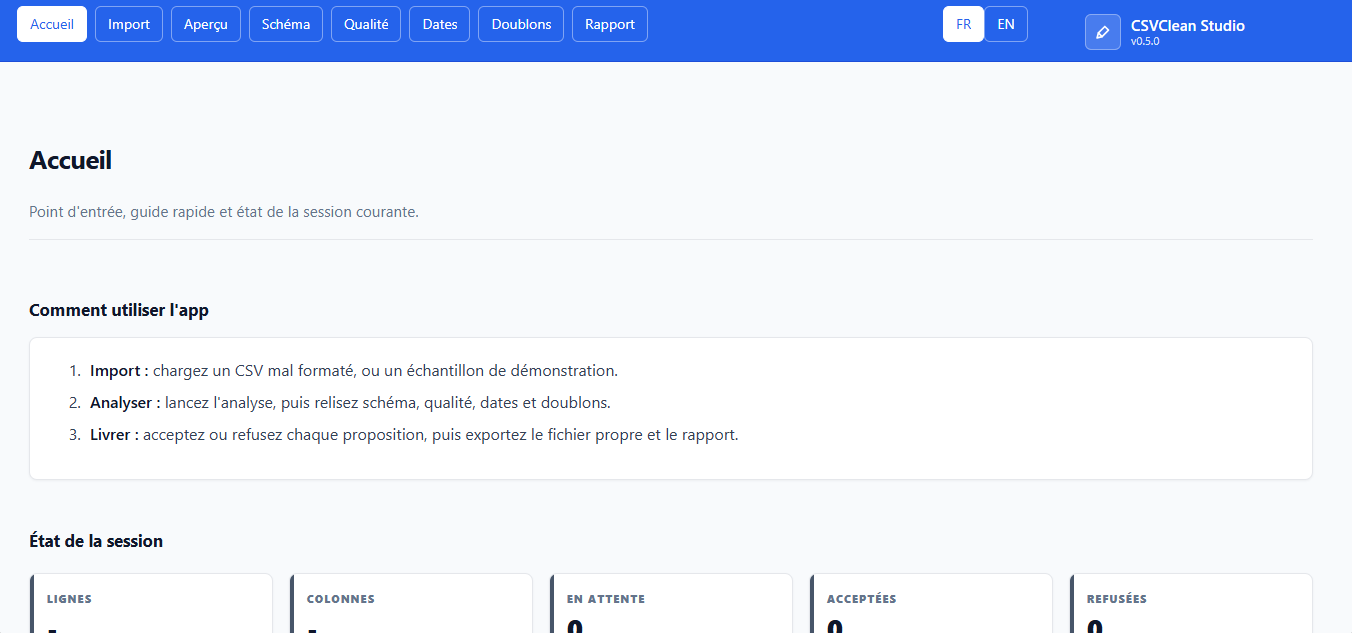
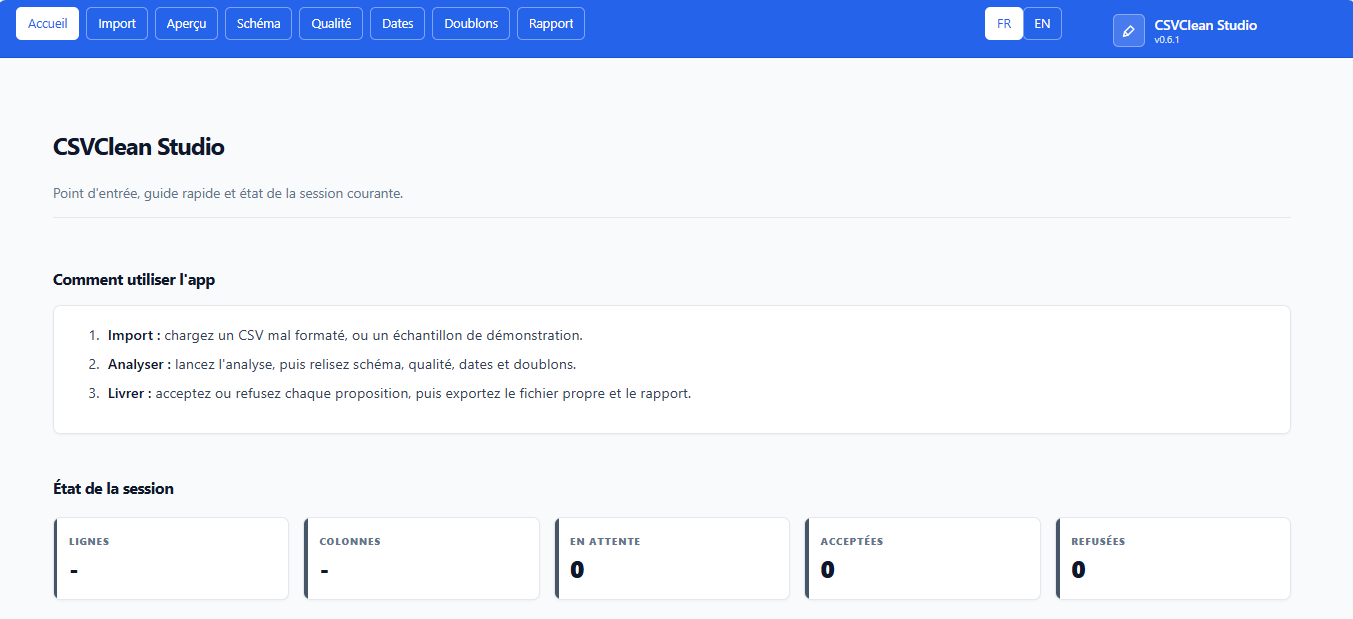
feat: update home page title and add info/err boxes for better user feedback

diff --git a/assets/styles.css b/assets/styles.css
@@ -130,6 +130,10 @@ code,pre,kbd,samp,[data-testid="stCode"],[data-testid="stJson"],[data-testid="st
 .warnbox svg{width:16px;height:16px;flex:0 0 auto;margin-top:1px;color:var(--medium)}
 .okbox{display:flex;gap:.5rem;align-items:center;background:var(--info-soft);border:1px solid #bbf7d0;border-left:4px solid var(--info);border-radius:var(--radius-md);padding:.7rem .9rem;font-size:.9rem;color:#166534}
 .okbox svg{width:16px;height:16px;flex:0 0 auto;color:var(--info)}
+.infobox{display:flex;gap:.5rem;align-items:center;background:var(--primary-soft);border:1px solid #bfdbfe;border-left:4px solid var(--primary);border-radius:var(--radius-md);padding:.7rem .9rem;font-size:.9rem;color:#1e40af}
+.infobox svg{width:16px;height:16px;flex:0 0 auto;color:var(--primary)}
+.errbox{display:flex;gap:.5rem;align-items:flex-start;background:var(--critical-soft);border:1px solid #fecaca;border-left:4px solid var(--critical);border-radius:var(--radius-md);padding:.7rem .9rem;font-size:.9rem;color:#991b1b}
+.errbox svg{width:16px;height:16px;flex:0 0 auto;margin-top:1px;color:var(--critical)}
 
 .stButton > button,.stDownloadButton > button{border-radius:12px;border:1px solid var(--border);background:var(--surface);color:var(--text-2);font-weight:700;padding:.55rem 1rem;box-shadow:var(--shadow-sm)}
 .stButton > button:hover,.stDownloadButton > button:hover{border-color:var(--primary);color:var(--primary)}
@@ -138,6 +142,10 @@ code,pre,kbd,samp,[data-testid="stCode"],[data-testid="stJson"],[data-testid="st
 .stTextInput input,.stNumberInput input,.stDateInput input,.stTimeInput input,.stSelectbox div[data-baseweb="select"] > div,.stMultiSelect div[data-baseweb="select"] > div,textarea{border-radius:12px!important;border-color:var(--border)!important;background:var(--surface)!important;color:var(--text)!important;font-family:var(--font-sans)!important}
 .stTextInput input:focus,.stNumberInput input:focus,.stSelectbox div[data-baseweb="select"] > div:focus-within,.stMultiSelect div[data-baseweb="select"] > div:focus-within,textarea:focus{border-color:var(--primary)!important;box-shadow:var(--focus-ring)!important}
 [data-testid="stAlert"]{border-radius:14px!important;border:1px solid var(--border)!important;border-left-width:4px!important;padding:.75rem .9rem!important;background:var(--surface)!important;box-shadow:var(--shadow-sm);font-family:var(--font-sans)!important}
+[data-testid="stAlert"]:has([data-testid="stAlertContentWarning"]){background:var(--medium-soft)!important;border-color:#fde68a!important;border-left-color:var(--medium)!important;color:#92400e!important}
+[data-testid="stAlert"]:has([data-testid="stAlertContentSuccess"]){background:var(--info-soft)!important;border-color:#bbf7d0!important;border-left-color:var(--info)!important;color:#166534!important}
+[data-testid="stAlert"]:has([data-testid="stAlertContentInfo"]){background:var(--primary-soft)!important;border-color:#bfdbfe!important;border-left-color:var(--primary)!important;color:#1e40af!important}
+[data-testid="stAlert"]:has([data-testid="stAlertContentError"]){background:var(--critical-soft)!important;border-color:#fecaca!important;border-left-color:var(--critical)!important;color:#991b1b!important}
 [data-testid="stDataFrame"],[data-testid="stTable"]{border:1px solid var(--border);border-radius:14px;overflow:hidden;background:var(--surface);box-shadow:var(--shadow-sm)}
 [data-testid="stTable"] th{background:var(--surface-2)!important;color:var(--muted)!important;font-size:.74rem;text-transform:uppercase;letter-spacing:.06em}
 [data-testid="stTable"] td,[data-testid="stTable"] th{border-color:var(--border)!important}

diff --git a/ui/components.py b/ui/components.py
@@ -67,6 +67,20 @@ def ok_box(text: str) -> None:
     )
 
 
+def info_box(text: str) -> None:
+    st.markdown(
+        f'<div class="infobox"><svg viewBox="0 0 24 24" fill="none" stroke="currentColor" stroke-width="2" stroke-linecap="round" stroke-linejoin="round"><circle cx="12" cy="12" r="10"/><path d="M12 16v-4"/><path d="M12 8h.01"/></svg><span>{_e(text)}</span></div>',
+        unsafe_allow_html=True,
+    )
+
+
+def err_box(text: str) -> None:
+    st.markdown(
+        f'<div class="errbox"><svg viewBox="0 0 24 24" fill="none" stroke="currentColor" stroke-width="2" stroke-linecap="round" stroke-linejoin="round"><circle cx="12" cy="12" r="10"/><path d="m15 9-6 6"/><path d="m9 9 6 6"/></svg><span>{_e(text)}</span></div>',
+        unsafe_allow_html=True,
+    )
+
+
 def conf_badge_html(v: float) -> str:
     pct = int(round(float(v) * 100))
     cls = "b-high" if pct >= 90 else ("b-mid" if pct >= 60 else "b-low")

diff --git a/app.py b/app.py
@@ -183,7 +183,7 @@ def profiles_df(profiles) -> pd.DataFrame:
 
 def page_home() -> None:
     lang = st.session_state.lang
-    page_header(t("home_title", lang), t("home_sub", lang))
+    page_header(t("app_name", lang), t("home_sub", lang))
     section(t("home_how", lang))
     steps = "".join(f"<li>{md_bold_to_html(t(k, lang))}</li>" for k in ("home_s1", "home_s2", "home_s3"))
     card(f"<ol>{steps}</ol>")
